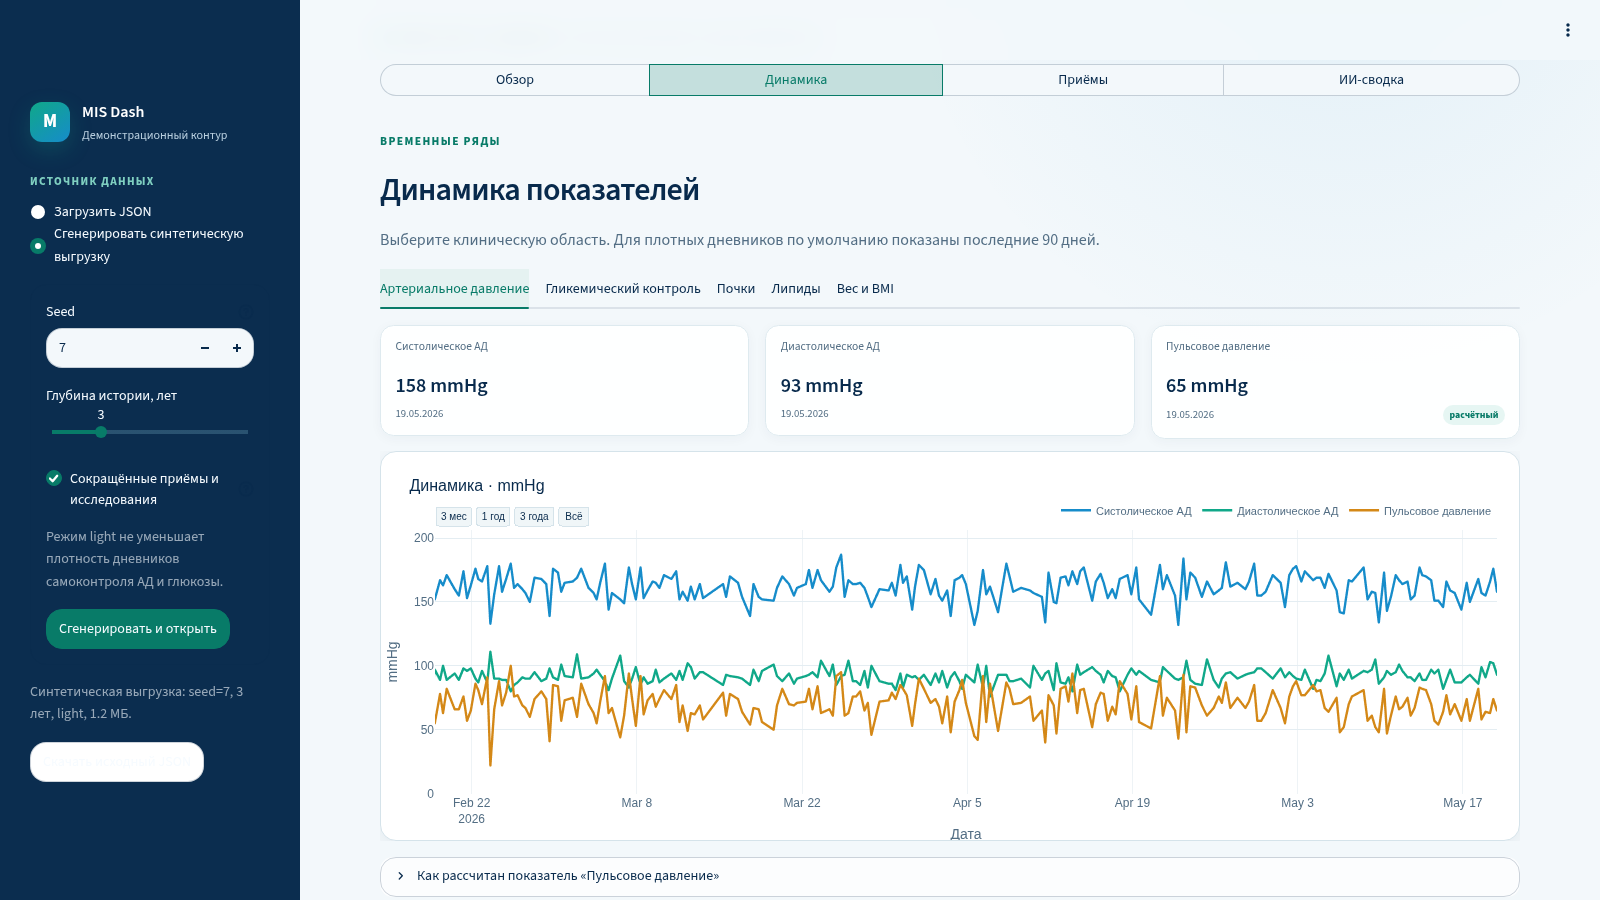
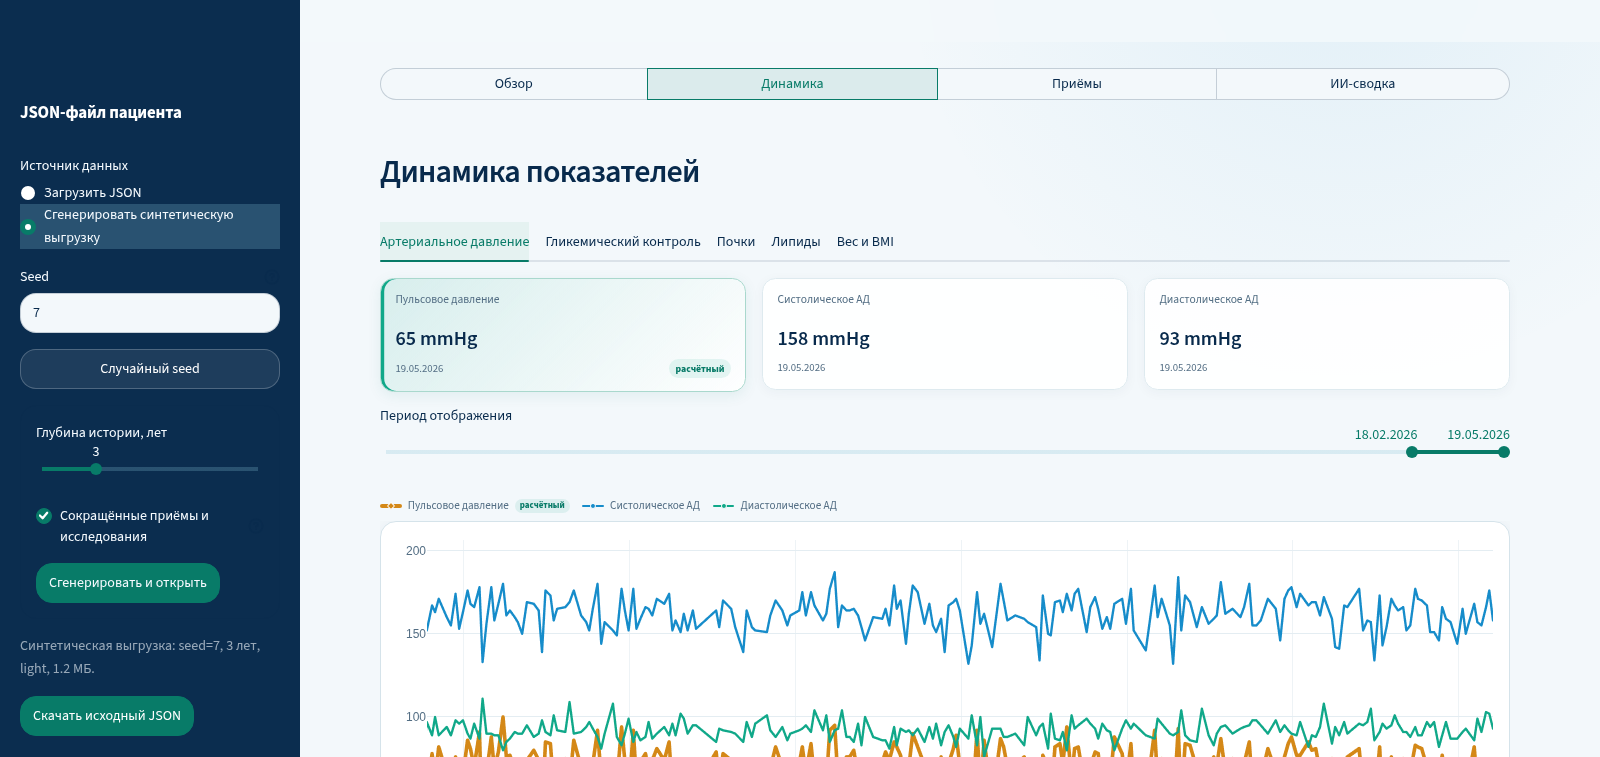
docs: refresh dashboard demonstration screenshots

diff --git a/docs/screenshots/capture.py b/docs/screenshots/capture.py
@@ -1,0 +1,268 @@
+"""Capture reproducible MIS Dash screenshots through the WebDriver protocol."""
+
+from __future__ import annotations
+
+import argparse
+import base64
+import json
+from pathlib import Path
+import socket
+import subprocess
+import time
+from typing import Any
+from urllib.request import Request, urlopen
+
+
+ROOT = Path(__file__).resolve().parents[2]
+OUTPUT_DIR = Path(__file__).resolve().parent
+DESKTOP_SIZE = (1600, 900)
+MOBILE_SIZE = (390, 844)
+
+
+class WebDriver:
+    """Small standard-library client for a local ChromeDriver session."""
+
+    def __init__(self, *, chromedriver: str = "chromedriver") -> None:
+        self.port = _free_port()
+        self.base_url = f"http://127.0.0.1:{self.port}"
+        self.process = subprocess.Popen(
+            [
+                chromedriver,
+                f"--port={self.port}",
+                "--allowed-ips=127.0.0.1",
+                "--log-level=WARNING",
+            ],
+            cwd=ROOT,
+        )
+        _wait_until(lambda: _is_reachable(f"{self.base_url}/status"))
+        response = self._request(
+            "POST",
+            "/session",
+            {
+                "capabilities": {
+                    "alwaysMatch": {
+                        "browserName": "chrome",
+                        "goog:chromeOptions": {
+                            "binary": "/usr/bin/chromium",
+                            "args": [
+                                "--headless=new",
+                                "--no-sandbox",
+                                "--disable-dev-shm-usage",
+                                f"--window-size={DESKTOP_SIZE[0]},{DESKTOP_SIZE[1]}",
+                                "--force-device-scale-factor=1",
+                            ],
+                        },
+                    }
+                }
+            },
+        )
+        self.session_id = response["sessionId"]
+
+    def close(self) -> None:
+        if hasattr(self, "session_id"):
+            try:
+                self._request("DELETE", f"/session/{self.session_id}")
+            except OSError:
+                pass
+        self.process.terminate()
+        self.process.wait(timeout=5)
+
+    def open(self, url: str) -> None:
+        self._session_request("POST", "/url", {"url": url})
+
+    def resize(self, width: int, height: int) -> None:
+        self._session_request(
+            "POST",
+            "/window/rect",
+            {"width": width, "height": height, "x": 0, "y": 0},
+        )
+
+    def execute(self, script: str) -> Any:
+        return self._session_request(
+            "POST",
+            "/execute/sync",
+            {"script": script, "args": []},
+        )
+
+    def wait_for(self, condition: str, *, timeout: float = 30) -> None:
+        _wait_until(lambda: bool(self.execute(f"return Boolean({condition})")), timeout)
+
+    def click_text(self, text: str) -> None:
+        encoded = json.dumps(text, ensure_ascii=False)
+        script = (
+            """
+            const normalize = (value) => value.replace(/\\s+/g, " ").trim();
+            const target = normalize(%s);
+            const element = [...document.querySelectorAll(
+              "button, label, [role='tab']"
+            )].find((item) => normalize(item.innerText || item.textContent) === target);
+            if (!element || element.disabled) return false;
+            element.click();
+            return true;
+            """
+            % encoded
+        )
+        deadline = time.monotonic() + 10
+        while time.monotonic() < deadline:
+            if self.execute(script):
+                return
+            time.sleep(0.15)
+        raise RuntimeError(f"Could not find control: {text}")
+
+    def capture(self, filename: str) -> None:
+        self.execute("window.scrollTo(0, 0); return true;")
+        time.sleep(1.2)
+        encoded = self._session_request("GET", "/screenshot")
+        (OUTPUT_DIR / filename).write_bytes(base64.b64decode(encoded))
+
+    def _session_request(
+        self,
+        method: str,
+        path: str,
+        payload: dict[str, Any] | None = None,
+    ) -> Any:
+        return self._request(
+            method,
+            f"/session/{self.session_id}{path}",
+            payload,
+        )
+
+    def _request(
+        self,
+        method: str,
+        path: str,
+        payload: dict[str, Any] | None = None,
+    ) -> Any:
+        body = json.dumps(payload).encode() if payload is not None else None
+        request = Request(
+            f"{self.base_url}{path}",
+            data=body,
+            method=method,
+            headers={"Content-Type": "application/json"},
+        )
+        with urlopen(request, timeout=30) as response:
+            result = json.load(response)["value"]
+        if isinstance(result, dict) and "error" in result:
+            raise RuntimeError(result["message"])
+        return result
+
+
+def capture(url: str) -> None:
+    driver = WebDriver()
+    try:
+        driver.open(url)
+        driver.wait_for("document.body.innerText.includes('MIS Dash')")
+        driver.click_text("Сгенерировать синтетическую выгрузку")
+        driver.wait_for(
+            "[...document.querySelectorAll('button')].some("
+            "item => item.innerText.includes('Сгенерировать и открыть'))"
+        )
+        driver.click_text("Сгенерировать и открыть")
+        driver.wait_for(
+            "document.body.innerText.includes('Файл обработан')",
+            timeout=90,
+        )
+
+        _capture_section(driver, "Обзор", "dashboard-overview.png", ".mis-patient-marker")
+        _capture_section(
+            driver,
+            "Динамика",
+            "dashboard-metrics.png",
+            "[data-testid='stPlotlyChart']",
+        )
+        _capture_section(
+            driver,
+            "Приёмы",
+            "dashboard-visits.png",
+            ".mis-visit-table",
+        )
+
+        driver.resize(*MOBILE_SIZE)
+        time.sleep(1)
+        _close_sidebar(driver)
+        _capture_section(
+            driver,
+            "Обзор",
+            "dashboard-mobile-overview.png",
+            ".mis-patient-marker",
+        )
+        _capture_section(
+            driver,
+            "Приёмы",
+            "dashboard-mobile-visits.png",
+            ".mis-visit-table",
+        )
+    finally:
+        driver.close()
+
+
+def _capture_section(
+    driver: WebDriver,
+    section: str,
+    filename: str,
+    ready_selector: str,
+) -> None:
+    driver.click_text(section)
+    selector = json.dumps(ready_selector)
+    driver.wait_for(f"document.querySelector({selector})")
+    driver.wait_for(
+        "window.innerWidth <= 720 || "
+        "document.querySelector(\"[data-testid='stSidebar']\")"
+        "?.innerText.includes('JSON-файл пациента')"
+    )
+    driver.capture(filename)
+
+
+def _close_sidebar(driver: WebDriver) -> None:
+    driver.execute(
+        """
+        const control = document.querySelector(
+          "[data-testid='stSidebarCollapseButton'] button,"
+          + " [data-testid='stSidebarCollapseButton']"
+        );
+        if (control) control.click();
+        return true;
+        """
+    )
+    time.sleep(0.5)
+
+
+def _free_port() -> int:
+    with socket.socket() as candidate:
+        candidate.bind(("127.0.0.1", 0))
+        return int(candidate.getsockname()[1])
+
+
+def _is_reachable(url: str) -> bool:
+    try:
+        with urlopen(url, timeout=0.2):
+            return True
+    except OSError:
+        return False
+
+
+def _wait_until(
+    predicate: Any,
+    timeout: float = 10,
+    interval: float = 0.1,
+) -> None:
+    deadline = time.monotonic() + timeout
+    while time.monotonic() < deadline:
+        try:
+            if predicate():
+                return
+        except OSError:
+            pass
+        time.sleep(interval)
+    raise TimeoutError("Timed out while waiting for browser state")
+
+
+def main() -> None:
+    parser = argparse.ArgumentParser()
+    parser.add_argument("--url", default="http://127.0.0.1:8501")
+    arguments = parser.parse_args()
+    capture(arguments.url)
+
+
+if __name__ == "__main__":
+    main()

diff --git a/docs/screenshots/README.md b/docs/screenshots/README.md
@@ -5,7 +5,9 @@
 
 Фиксированный сценарий:
 
-- viewport: `1600×900`, масштаб браузера 100%;
+- desktop browser window: `1600×900` (`1600×757` в PNG);
+- mobile browser window: `390×844` (`390×701` в PNG);
+- масштаб браузера 100%;
 - источник: встроенный generator;
 - `seed=7`;
 - глубина истории: 3 года;
@@ -17,6 +19,20 @@
 - `dashboard-overview.png` — профиль пациента и первый клинический сигнал;
 - `dashboard-metrics.png` — последние значения и 90-дневный график АД;
 - `dashboard-visits.png` — поиск и таблица врачебных приёмов.
+- `dashboard-mobile-overview.png` — паспорт и красный флаг на телефоне;
+- `dashboard-mobile-visits.png` — мобильные карточки приёмов.
+- `documentation/` — расширенные кадры `1440×1100`, где виден дополнительный
+  клинический контекст ниже первого экрана.
+
+Для воспроизводимой пересъёмки запустите приложение и capture-скрипт:
+
+```bash
+streamlit run src/app/main.py
+python docs/screenshots/capture.py
+```
+
+Скрипт использует локальные `chromedriver` и Chromium, не обращается к Gemini
+и перезаписывает только перечисленные PNG.
 
 Перед заменой изображения проверьте имя и показатели пациента по созданной
 синтетической выгрузке. Реальные медицинские данные, API-ключи, адресная строка
